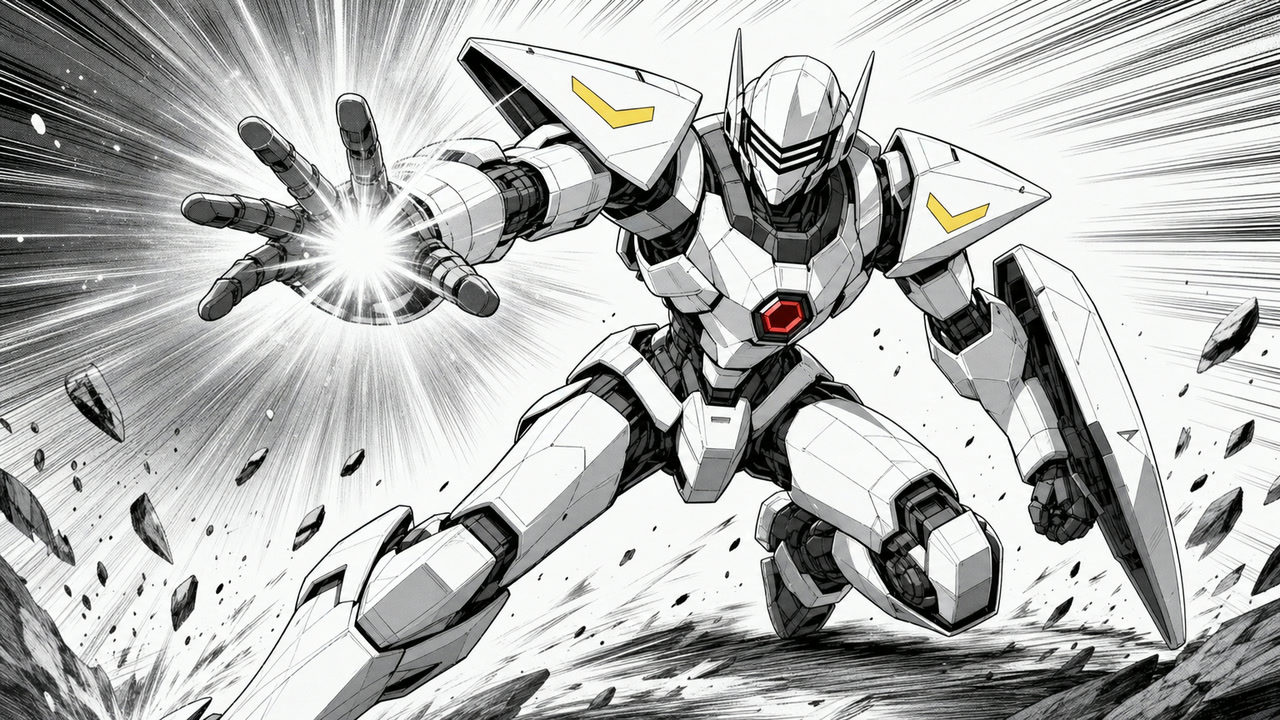
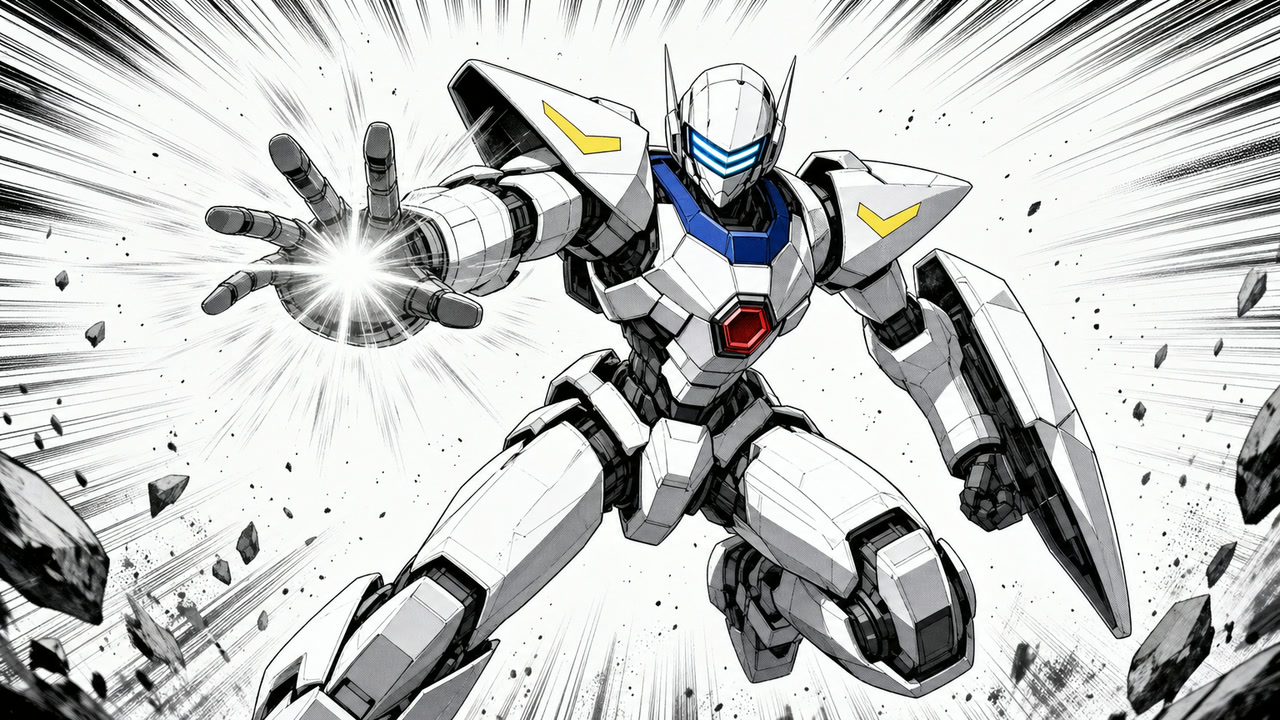
fix(web): blue visor slots on raider and buyer landing heroes
Regenerate raider and buyer manga panels with cyan-blue dual eye slots
so dark-theme colored slices match seller. Update landing hero art docs.

diff --git a/docs/reference/landing-hero-art.md b/docs/reference/landing-hero-art.md
@@ -63,7 +63,7 @@ Landing repeats the same filter under a higher-specificity selector:
 }
 ```
 
-Because this rule is more specific than the landing light filter, dark mode keeps yellow visor glows and warm highlights instead of the B&W light-mode pass.
+Because this rule is more specific than the landing light filter, dark mode keeps cyan-blue visor eye slots and warm highlights instead of the B&W light-mode pass.
 
 ### 3. Layout-only landing overrides
 
